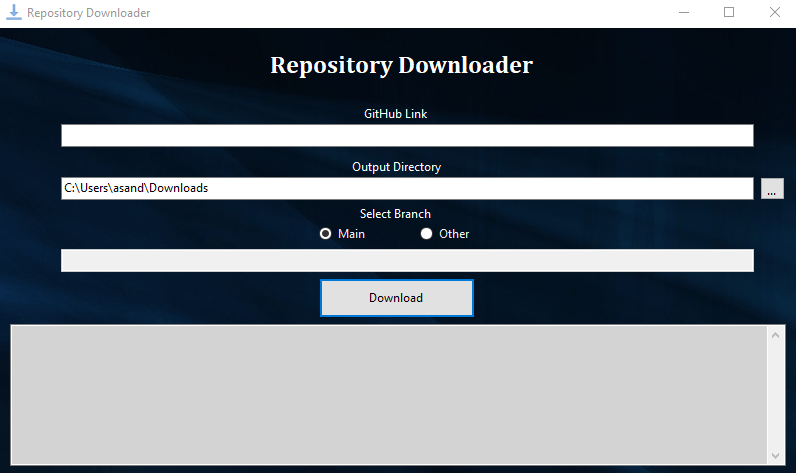
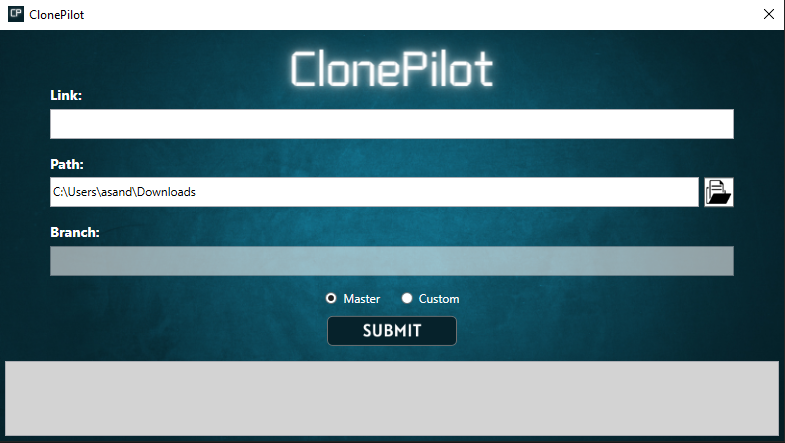
Update README

diff --git a/README.md b/README.md
@@ -1,26 +1,29 @@
-# GitHub Repository Downloader
+# ClonePilot
 
-A simple .NET Core application that allows you to download repositories from GitHub. This application is useful for downloading repositories that are not available as a zip file and cuts out having to navigate to the GitHub website to download a repository.
+A .NET application that allows you to clone repositories from GitHub. This application is useful for cloneing repositories that are not available as a zip file and cuts out having to navigate to the GitHub website to clone a repository.
 
 ## Features
 
-- Download a repository from GitHub with a single command.
-- Specify a custom download location.
-- Select a branch to download.
+- clone a repository from GitHub with a single command.
+- Specify a custom clone location.
+- Select a branch to clone.
 
 ## Prerequisites
 
-- .NET 6.0 SDK or later.
-- Git.
+- .NET 8 SDK
+- Git
 
 ## Limitations
 
-- The application only supports downloading public repositories.
-- The application does not support downloading repositories with private submodules.
+- The application only supports cloneing public repositories.
+- The application does not support cloneing repositories with private submodules.
 
 ## Usage
 
-Simply enter the GitHub link to the repository you wish to download as the first argument to the application. The application will download the repository to the current working directory which is by default the 'Downloads' folder. If you do not have a 'Downloads' folder, the application will select the Desktop as the download location. You can also specify a custom download location by clicking the '...' button and then select the desired location. After you have selected the download location, click the 'Download' button to begin the download. If you have a specific branch you need yo select, you can specify it by entering the branch name in the 'Branch' text box. If you do not specify a branch, the application will download the default branch of the repository.
+Simply enter the GitHub link to the repository. The application will clone the repository to the current working directory which is by default the 'Downloads' folder. If you do not have this folder, the application will leave this field empty for user population. You can also specify a custom location by clicking the folder button and then select the desired location. 
+If you have a specific branch you need yo select, you can specify it by entering the branch name in the 'Branch' text box. If you do not specify a branch, the application will clone the default master/main branch of the repository.
+
+After you have specified all of your settings, click the 'Submit' button to begin the clone. 
 
 ## Screenshots
 
